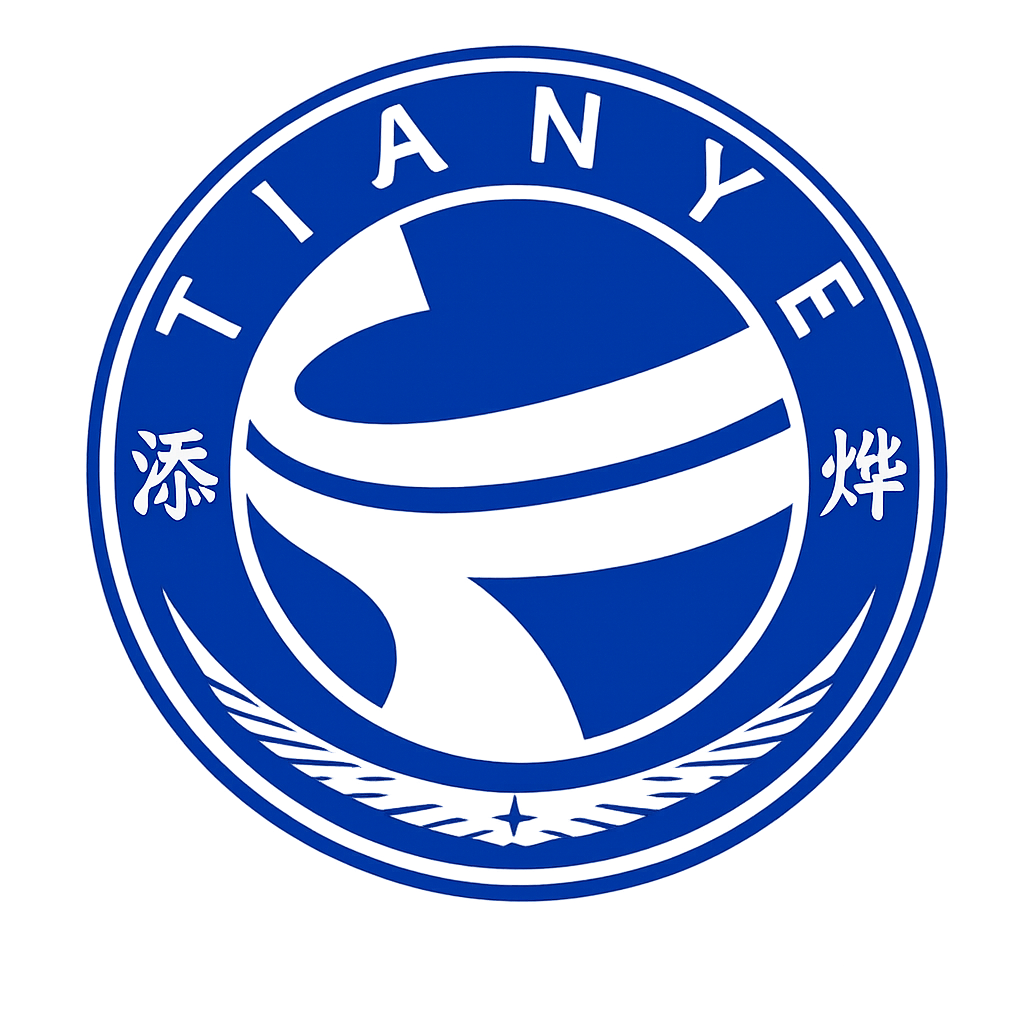
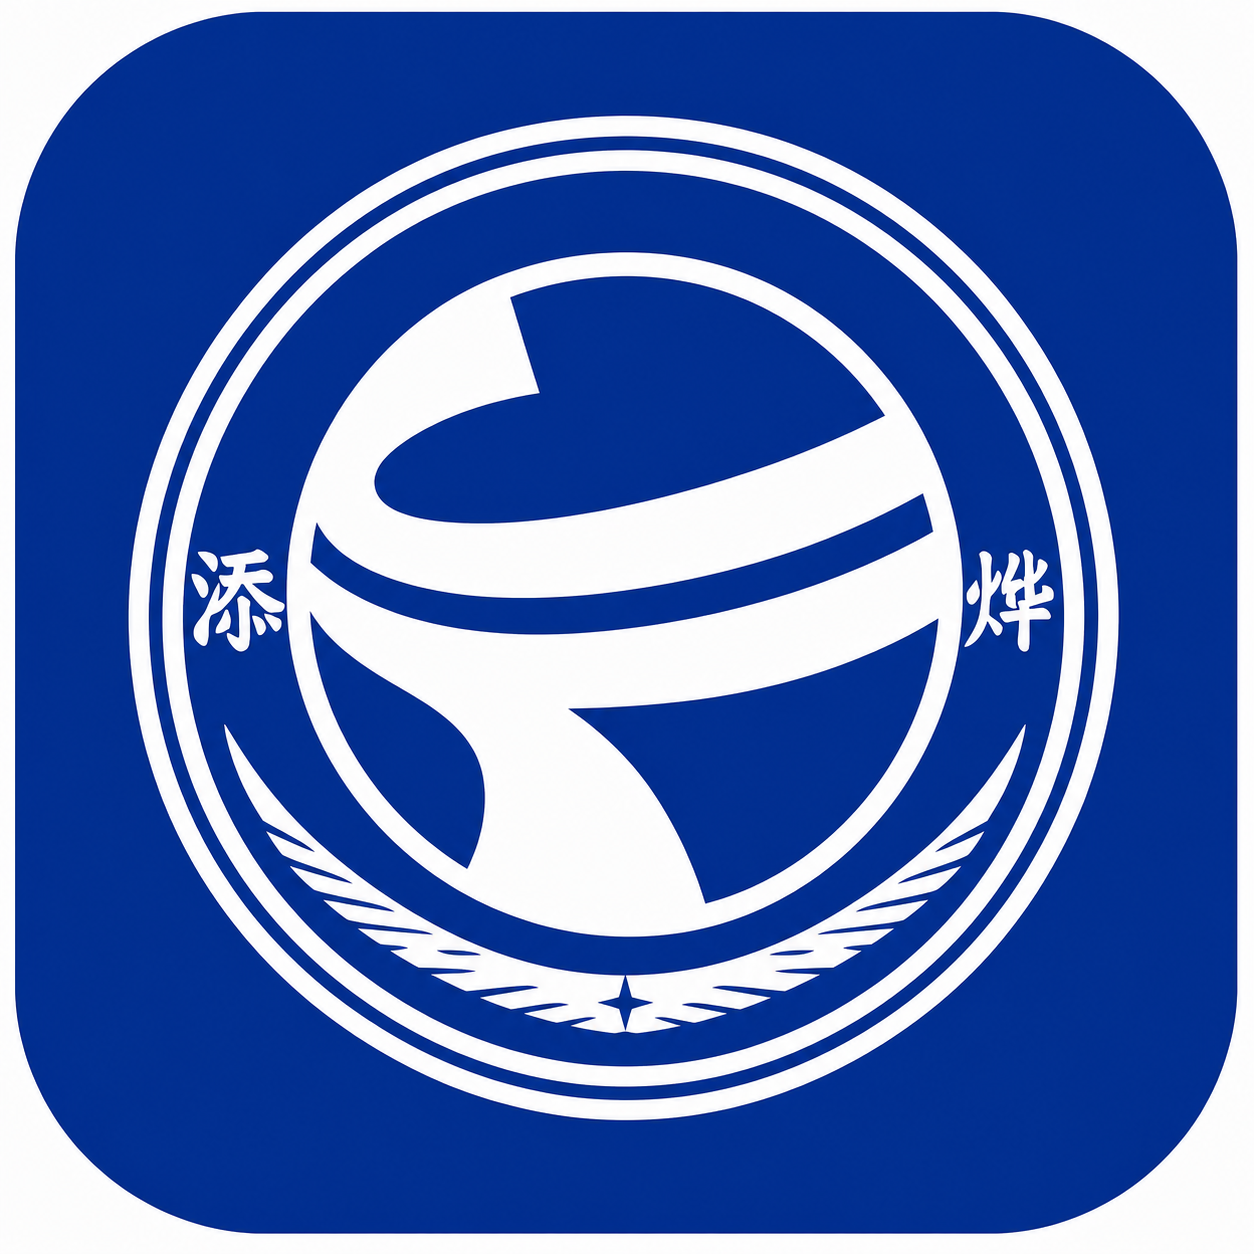
优化全站Logo清晰度

diff --git a/src/app/page.tsx b/src/app/page.tsx
@@ -40,6 +40,6 @@ export default function Home() {
 
     <section className="home-trust"><div className="home-trust-image"><Image src="/images/tianye-office-team.png" alt="添烨团队在现代办公空间协作" fill sizes="(max-width: 900px) 100vw, 55vw" /></div><div className="home-trust-copy"><p className="home-kicker">我们的坚持</p><h2>专业，不止是<br/>办成一件事</h2><p>从沟通需求到推进服务，我们重视清晰、规范与及时响应，让企业在每一次合作中感到安心。</p><div className="home-trust-items"><div><b>本</b><span><strong>深耕本土</strong>了解绍兴企业的真实需求</span></div><div><b>全</b><span><strong>全程陪伴</strong>衔接企业不同阶段的事项</span></div><div><b>诚</b><span><strong>务实诚信</strong>用清晰沟通回应每次托付</span></div></div></div></section>
 
-    <section className="home-contact"><div className="home-contact-symbol home-contact-logo"><Image src="/images/tianye-official-logo.png" alt="添烨控股标志" fill sizes="92px" /></div><div><p className="home-eyebrow">从一次沟通开始</p><h2>您认真经营，<br/>我们认真陪伴</h2><p>无论您正在筹备创业，还是想让企业经营更有条理，欢迎和添烨聊一聊。</p></div><div className="home-contact-action"><a href="tel:17805858733">178 0585 8733</a><span>工作日 9:00 - 18:00</span><Link href="/contact" className="primary">预约专业顾问 <span>→</span></Link></div></section>
+    <section className="home-contact"><div className="home-contact-symbol home-contact-logo"><Image src="/images/tianye-logo-clear.png" alt="添烨控股标志" fill sizes="108px" quality={100} /></div><div><p className="home-eyebrow">从一次沟通开始</p><h2>您认真经营，<br/>我们认真陪伴</h2><p>无论您正在筹备创业，还是想让企业经营更有条理，欢迎和添烨聊一聊。</p></div><div className="home-contact-action"><a href="tel:17805858733">178 0585 8733</a><span>工作日 9:00 - 18:00</span><Link href="/contact" className="primary">预约专业顾问 <span>→</span></Link></div></section>
   </main><SiteFooter /></>;
 }

diff --git a/src/app/logo.css b/src/app/logo.css
@@ -2,26 +2,47 @@
 .home-contact-logo {
   position: relative;
   overflow: hidden;
-  background: #063b9b;
+  background: #0a4194;
+  isolation: isolate;
 }
 
 .brand-logo {
-  border: 1px solid rgba(14, 78, 174, 0.72);
-  box-shadow: 0 2px 8px rgba(10, 38, 96, 0.2);
+  width: 52px;
+  height: 52px;
+  flex: 0 0 52px;
+  border: 1px solid rgba(15, 89, 191, 0.82);
+  box-shadow: 0 3px 10px rgba(8, 39, 100, 0.24);
 }
 
 .brand-logo img,
 .home-contact-logo img {
-  object-fit: cover;
-  transform: scale(1.08);
+  object-fit: contain;
+  transform: none;
 }
 
 .footer-brand .brand-logo {
-  background: #063b9b;
-  border-color: rgba(255, 255, 255, 0.34);
+  background: #0a4194;
+  border-color: rgba(255, 255, 255, 0.62);
 }
 
 .home-contact-logo {
-  border-color: rgba(255, 255, 255, 0.72);
-  box-shadow: 0 6px 18px rgba(91, 20, 15, 0.22);
+  width: 108px;
+  height: 108px;
+  flex: 0 0 108px;
+  border: 2px solid rgba(255, 255, 255, 0.86);
+  box-shadow: 0 8px 22px rgba(71, 18, 14, 0.24);
+}
+
+@media (max-width: 560px) {
+  .brand-logo {
+    width: 42px;
+    height: 42px;
+    flex-basis: 42px;
+  }
+
+  .home-contact-logo {
+    width: 72px;
+    height: 72px;
+    flex-basis: 72px;
+  }
 }

diff --git a/src/app/layout.tsx b/src/app/layout.tsx
@@ -7,9 +7,9 @@ export const metadata: Metadata = {
   title: "绍兴添烨控股集团有限公司 | 一站式企业服务",
   description: "立足绍兴，面向中小微企业提供工商商事、财税、知识产权及企业增值服务。",
   icons: {
-    icon: [{ url: "/icon.png", type: "image/png", sizes: "1024x1024" }],
-    shortcut: ["/icon.png"],
-    apple: [{ url: "/apple-icon.png", type: "image/png", sizes: "1024x1024" }],
+    icon: [{ url: "/icon.png?v=2", type: "image/png", sizes: "1024x1024" }],
+    shortcut: ["/icon.png?v=2"],
+    apple: [{ url: "/apple-icon.png?v=2", type: "image/png", sizes: "1024x1024" }],
   },
 };
 

diff --git a/src/app/manifest.ts b/src/app/manifest.ts
@@ -11,8 +11,8 @@ export default function manifest(): MetadataRoute.Manifest {
     theme_color: "#063b9b",
     lang: "zh-CN",
     icons: [
-      { src: "/icon.png", sizes: "1024x1024", type: "image/png", purpose: "any" },
-      { src: "/apple-icon.png", sizes: "1024x1024", type: "image/png", purpose: "maskable" },
+      { src: "/icon.png?v=2", sizes: "1024x1024", type: "image/png", purpose: "any" },
+      { src: "/apple-icon.png?v=2", sizes: "1024x1024", type: "image/png", purpose: "maskable" },
     ],
   };
 }

diff --git a/src/components/SiteHeader.tsx b/src/components/SiteHeader.tsx
@@ -20,7 +20,7 @@ export function SiteHeader() {
     <header className="topbar">
       <Link href="/" className="brand" aria-label="添烨控股首页">
         <span className="brand-mark brand-logo">
-          <Image src="/images/tianye-official-logo.png" alt="添烨控股标志" fill sizes="42px" priority />
+          <Image src="/images/tianye-logo-clear.png" alt="添烨控股标志" fill sizes="52px" quality={100} priority />
         </span>
         <span>
           <b>添烨控股</b>

diff --git a/src/components/SiteFooter.tsx b/src/components/SiteFooter.tsx
@@ -6,7 +6,7 @@ export function SiteFooter() {
     <footer>
       <Link href="/" className="brand footer-brand">
         <span className="brand-mark brand-logo">
-          <Image src="/images/tianye-official-logo.png" alt="添烨控股标志" fill sizes="42px" />
+          <Image src="/images/tianye-logo-clear.png" alt="添烨控股标志" fill sizes="52px" quality={100} />
         </span>
         <span>
           <b>添烨控股</b>
